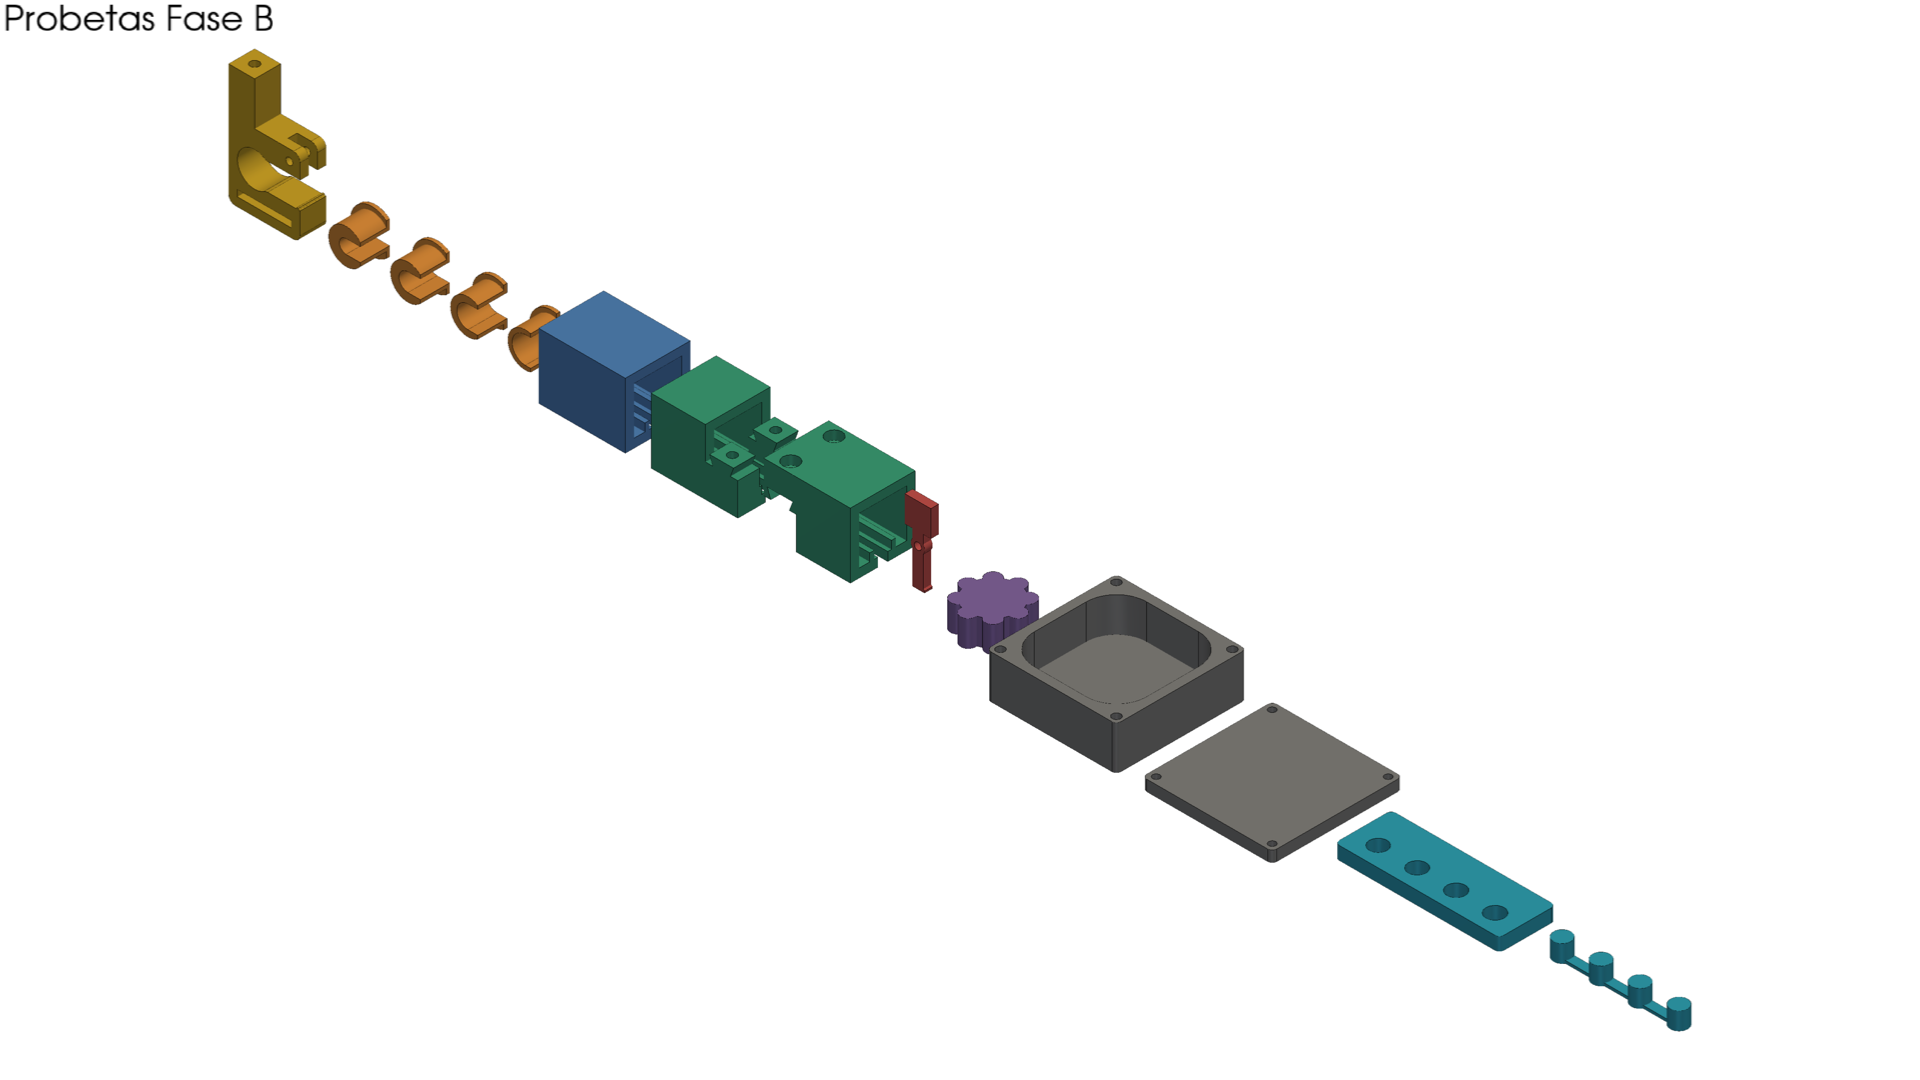
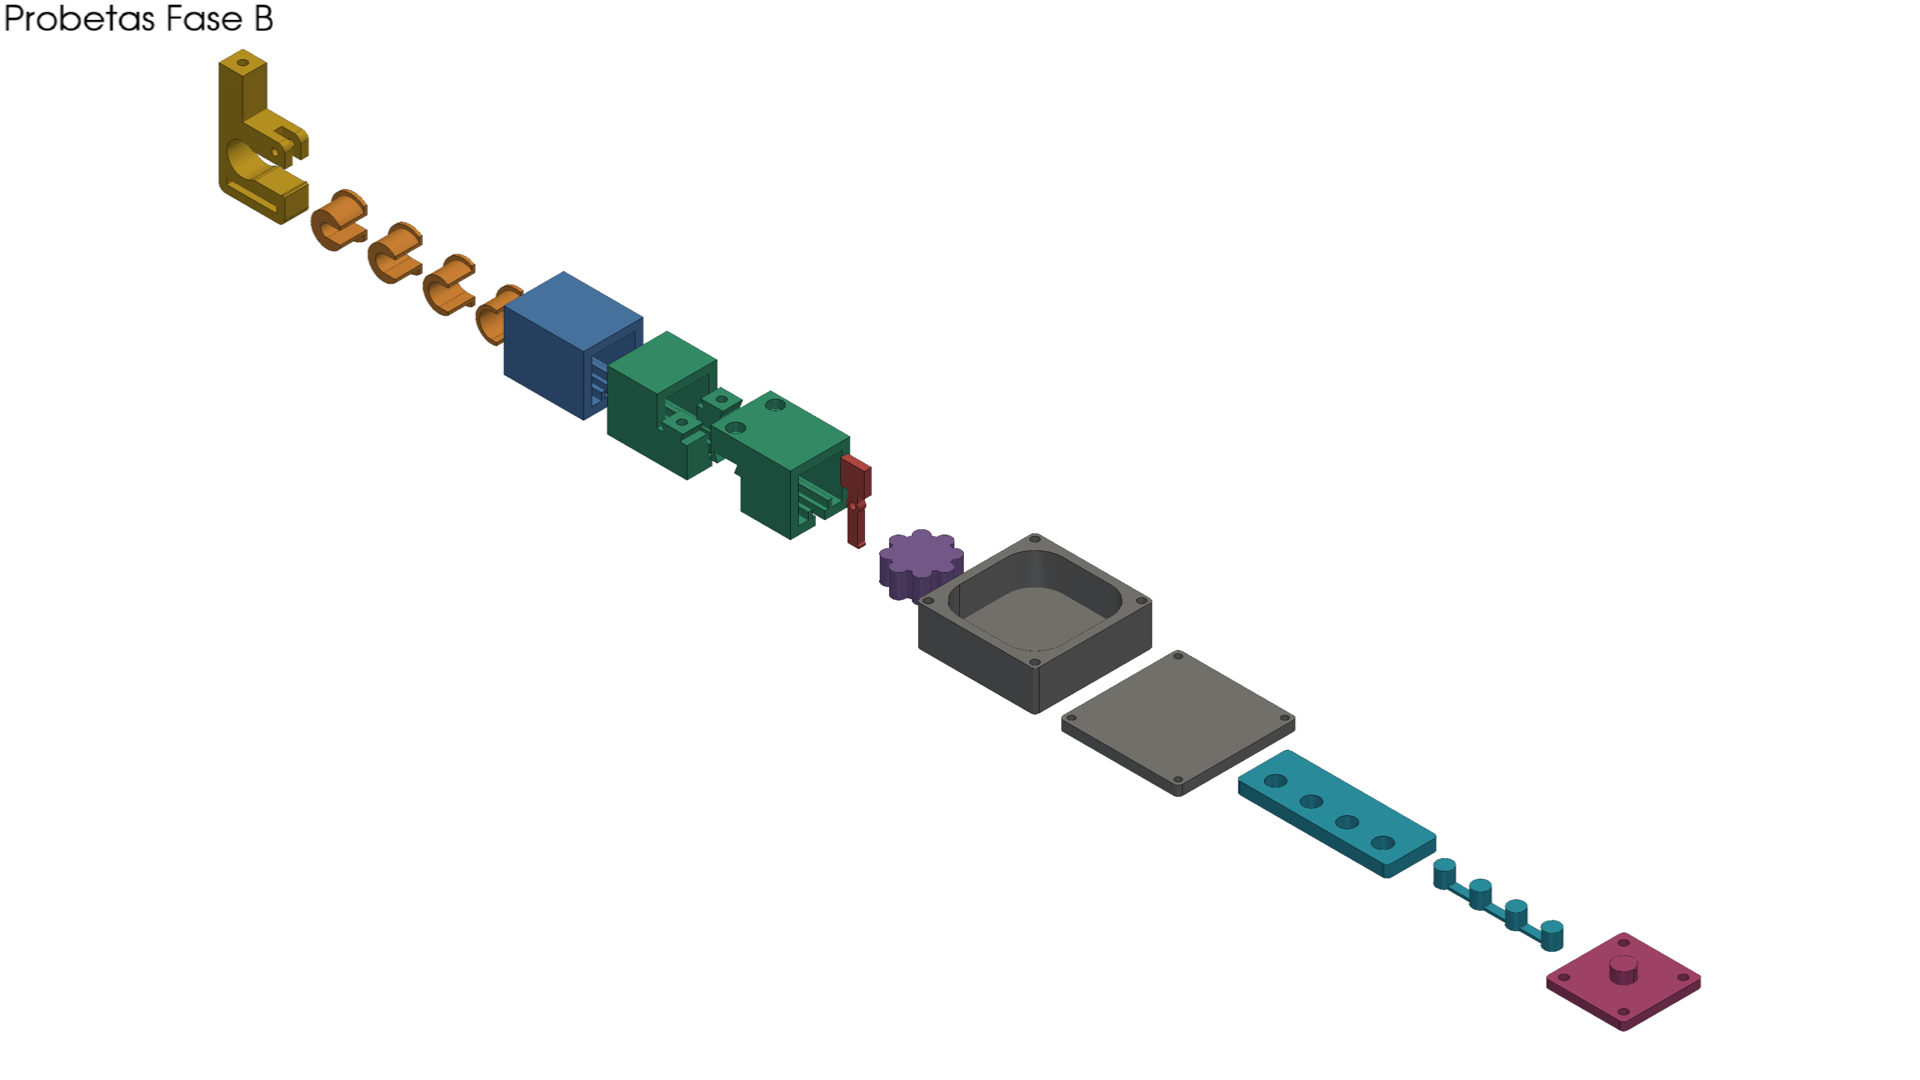
cad(probetas): PB8 de arranque de inserto M4 en PETG
Placa con el espesor del fondo de la caja (4) y el refuerzo del inserto
(Ø10 x 6), agujero ciego desde la cara de afuera como en M1 y 4 M4 a 30 para
atornillarla a un marco y tirar. Exigencia a comparar: 274 N por inserto.

Changed region(s): [[0.0938, 0.0306, 0.9062, 0.9778]]

diff --git a/Proyecto/MóduloMecánico/cad_final/probetas.py b/Proyecto/MóduloMecánico/cad_final/probetas.py
@@ -1,4 +1,4 @@
-"""Fase B test coupons (probetas PB1..PB7) for the PETG underwater node. Every dimension comes from params.py;
+"""Fase B test coupons (probetas PB1..PB8; PB8 added 29/10) for the PETG underwater node. Every dimension comes from params.py;
 module constants below are design values still missing there (listed in reporte_probetas.md).
 
 Frame as the rest of cad_final: X along the rail, Y across, Z up, rail bottom at z = 0. Hook parts (PB1, PB4) use the
@@ -12,6 +12,7 @@ import cadquery as cq
 
 import gancho
 from checks import brep_check, export_part, mesh_checks, sanitize
+from params import (BASE_M4_BOSS, INSERT_COUPON, M4_INSERT_DEPTH, M4_INSERT_HOLE)
 from params import (BOX_FLOOR, BOX_LID_T, BOX_WALL, BUSHING_DIAMETERS, BUSHING_FLANGE, BUSHING_PRESS,
                     BUSHING_ROD_CLR, COMB_CLEARANCES, COMB_PIN_D, FIT_CLEAR, GROOVE_DEPTH, GROOVE_WIDTH,
                     HOLE_COMP, HOOK_CONTACT_W, HOOK_EDGE_R, JAW_BORE, KNOB_D, KNOB_H, KNOB_LOBES, LATCH_BUMP,
@@ -207,6 +208,20 @@ def pb7(with_text=True):
     return {"PB7_peine": plate, "PB7_pines": pins}
 
 
+def pb8():
+    """M4 heat-set insert pull-out: the box floor (BOX_FLOOR) with the inner boss of the rail M4 (BASE_M4_BOSS) and the
+    blind insert hole entering from the outer face, as in caja_central.box_body. Outer face on the bed, as M1."""
+    a, pitch = INSERT_COUPON
+    bd, bh = BASE_M4_BOSS
+    plate = _box(-a / 2, a / 2, -a / 2, a / 2, 0, BOX_FLOOR).edges("|Z").fillet(SEAL_FILLET)
+    plate = plate.union(_cyl_z(0, 0, bd, BOX_FLOOR - 0.01, BOX_FLOOR + bh))
+    plate = plate.cut(_cyl_z(0, 0, M4_INSERT_HOLE, -0.1, M4_INSERT_DEPTH))
+    for sx in (1, -1):
+        for sy in (1, -1):
+            plate = plate.cut(_cyl_z(sx * pitch / 2, sy * pitch / 2, M4_CLEAR, -0.1, BOX_FLOOR + 0.1))
+    return {"PB8_inserto_M4": plate}
+
+
 # ------------------------------------------------------------------ run
 RAIL_O, FLAT = ("X", 90), None
 ORIENT = {"PB1_garra": ("X", 90), "M14_pestillo": ("X", 90), "PB2_ranura_T": RAIL_O, "PB3_macho": RAIL_O,
@@ -236,12 +251,17 @@ NOTES = {
     "PB7_peine": ("Probar que pin entra en cada agujero: la holgura que ajusta sin juego fija FIT_CLEAR y HOLE_COMP "
                   "(sin texto: de izquierda a derecha 0.2, 0.3, 0.4, 0.5)."),
     "PB7_pines": "Cortar los pines del sprue; se prueban en los 4 agujeros del peine.",
+    "PB8_inserto_M4": ("Imprimir como M1 (100 %, 5 perimetros, cara de afuera en la cama). Colocar el inserto M4 en caliente "
+                       "desde la cara de afuera, atornillar la placa por las 4 esquinas a un marco con hueco central y "
+                       "colgar peso o tirar con el dinamometro de un perno M4 en el inserto hasta que salga. El fondo "
+                       "real pide 274 N por inserto (Ø500): imprimir 3 y anotar la fuerza de cada una."),
 }
 
 
 def main():
     OUT.mkdir(parents=True, exist_ok=True)
-    groups = [("PB1", pb1), ("PB2", pb2), ("PB3", pb3), ("PB4", pb4), ("PB5", pb5), ("PB6", pb6), ("PB7", pb7)]
+    groups = [("PB1", pb1), ("PB2", pb2), ("PB3", pb3), ("PB4", pb4), ("PB5", pb5), ("PB6", pb6), ("PB7", pb7),
+              ("PB8", pb8)]
     shapes, rows, fails = {}, [], []
     for name, fn in groups:
         try:
@@ -288,7 +308,7 @@ def main():
     # render: all coupons laid out in a row, modelled orientation
     from render import render
     colours = {"PB1": "#c9a227", "M13": "#d98c3a", "PB2": "#4f81bd", "PB3": "#3a9d7a", "M14": "#c0504d",
-               "M12": "#8064a2", "PB6": "#7f7f7f", "PB7": "#2e9fb8"}
+               "M12": "#8064a2", "PB6": "#7f7f7f", "PB7": "#2e9fb8", "PB8": "#b04a7a"}
     items, cur = [], 0.0
     for stem, shp in shapes.items():
         if stem == "PB3_hembra":
@@ -327,6 +347,8 @@ def write_report(rows, fails):
               "- Pestillo (PB4) sobre la garra (PB1): fija el resalte `LATCH_BUMP` de 0.6.",
               "- Garra y casquillos (PB1, M13): el usuario mide con dinamometro de equipaje la fuerza de entrada y salida "
               "por casquillo (varillas reales de 6, 8, 10 y 12).",
+              "- Inserto M4 (PB8): la fuerza de arranque se compara con los 274 N por inserto del fondo de la caja "
+              "(`reporte_verificacion.md` §4).",
               "", "## Decisiones de diseno", "",
               "- PB1: la garra mide 12 en Y (contacto). La ranura de correa 25 x 3 atraviesa en Y la parte baja, bajo el "
               "asiento. El pestillo gira en un M3 en el labio superior y se aloja en una ranura central de "

diff --git a/Proyecto/MóduloMecánico/cad_final/params.py b/Proyecto/MóduloMecánico/cad_final/params.py
@@ -170,6 +170,9 @@ KNOB_LOBES = p("perilla.lobulos", 8, EST, VER, "Moleteado grueso para guante")
 COMB_CLEARANCES = p("peine.holguras", (0.2, 0.3, 0.4, 0.5), "equipo", OK, "Peine de holguras de la Fase B")
 COMB_PIN_D = p("peine.pin_D", 8.0, EST, VER, "Pin de prueba")
 SEAL_COUPON = p("probeta.junta", (60.0, 60.0), "equipo", OK, "Cuadrado de 60 x 60 con ranura y 4 M3")
+INSERT_COUPON = p("probeta.inserto_M4", (40.0, 30.0), EST, VER,
+                  "PB8: placa de 40 x 40 con el espesor del fondo de la caja y el refuerzo del inserto; 4 agujeros M4 a 30 "
+                  "para atornillarla a un marco con hueco central y tirar del inserto (29/10)")
 
 # probetas (Fase B): constantes de forma que propuso el modelado; Fase C reutiliza las del gancho/pestillo/perilla
 COUPON_L = p("probeta.tramo_L", 40.0, EST, VER, "PB2/PB3 rail length per segment")

diff --git a/Proyecto/MóduloMecánico/cad_final/reporte_probetas.md b/Proyecto/MóduloMecánico/cad_final/reporte_probetas.md
@@ -18,6 +18,7 @@ Generado por `cad_final/probetas.py`. STL en `../salida/probetas/`; render `prob
 | PB6_tapa | PB6_tapa.stl | ok | si | 17.04 | 60.0 x 60.0 x 5.0 (plano) | 511 | Ranura 2.6 x 1.5: comprobar compresion del o-ring (25 %) y que el cordon no se salga; sumergir. |
 | PB7_peine | PB7_peine.stl | ok | si | 10.52 | 76.0 x 26.0 x 6.0 (plano) | 0 | Probar que pin entra en cada agujero: la holgura que ajusta sin juego fija FIT_CLEAR y HOLE_COMP (sin texto: de izquierda a derecha 0.2, 0.3, 0.4, 0.5). |
 | PB7_pines | PB7_pines.stl | ok | si | 1.76 | 62.0 x 8.0 x 8.0 (plano) | 0 | Cortar los pines del sprue; se prueban en los 4 agujeros del peine. |
+| PB8_inserto_M4 | PB8_inserto_M4.stl | ok | si | 6.43 | 40.0 x 40.0 x 10.0 (plano) | 25 | Imprimir como M1 (100 %, 5 perimetros, cara de afuera en la cama). Colocar el inserto M4 en caliente desde la cara de afuera, atornillar la placa por las 4 esquinas a un marco con hueco central y colgar peso o tirar con el dinamometro de un perno M4 en el inserto hasta que salga. El fondo real pide 274 N por inserto (Ø500): imprimir 3 y anotar la fuerza de cada una. |
 
 ## Como alimentan los parametros
 
@@ -25,6 +26,7 @@ Generado por `cad_final/probetas.py`. STL en `../salida/probetas/`; render `prob
 - Ranura T con tuerca (PB2): fija `RAIL_TSLOT` (abertura, ancho, alto) y `RAIL_TSLOT_RIB`.
 - Pestillo (PB4) sobre la garra (PB1): fija el resalte `LATCH_BUMP` de 0.6.
 - Garra y casquillos (PB1, M13): el usuario mide con dinamometro de equipaje la fuerza de entrada y salida por casquillo (varillas reales de 6, 8, 10 y 12).
+- Inserto M4 (PB8): la fuerza de arranque se compara con los 274 N por inserto del fondo de la caja (`reporte_verificacion.md` §4).
 
 ## Decisiones de diseno
 
